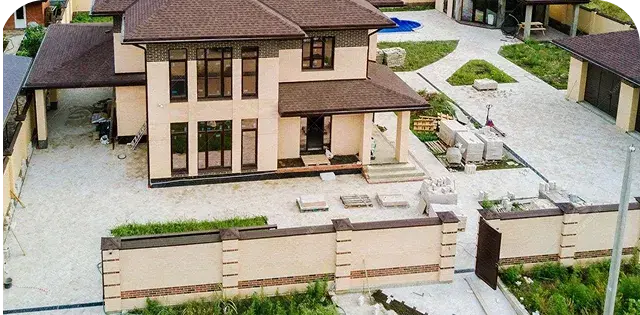
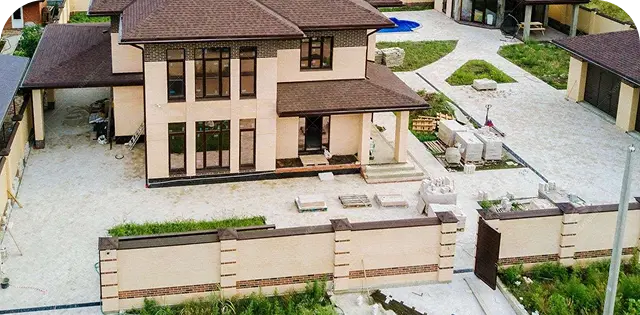
fix: bugs

diff --git a/client/src/features/client/forms/ApplicationForm/ApplicationForm.module.css b/client/src/features/client/forms/ApplicationForm/ApplicationForm.module.css
@@ -1,3 +1,15 @@
+@keyframes bounce {
+  0% {
+    transform: translateY(0);
+  }
+  50% {
+    transform: translateY(-10px);
+  }
+  100% {
+    transform: translateY(0);
+  }
+}
+
 .formContainer {
   position: fixed;
   display: flex;
@@ -30,7 +42,7 @@
 }
 
 .icon {
-  width: 2.5rem;
+  width: 2.2rem;
 }
 
 .closeButton:hover {
@@ -78,18 +90,6 @@
   transform: scale(1.1);
 }
 
-@keyframes bounce {
-  0% {
-    transform: translateY(0);
-  }
-  50% {
-    transform: translateY(-10px);
-  }
-  100% {
-    transform: translateY(0);
-  }
-}
-
 .submitButton:disabled {
   transition: background-color 0.3s ease;
   cursor: default;
@@ -110,6 +110,10 @@
   .closeButton {
     top: 2rem;
     right: 2.5rem;
+  }
+
+  .icon {
+    width: 2.4rem;
   }
 
   .formCard h2 {

diff --git a/client/src/features/client/forms/ApplicationForm/Input/Input.module.css b/client/src/features/client/forms/ApplicationForm/Input/Input.module.css
@@ -56,13 +56,16 @@
 
 .inputGroupError span {
   font-size: 1.2rem;
-  color: #646464;
+  color: #ff0404;
 }
 
 @media (max-width: 425px) {
   .inputGroup input,
   .inputGroup select {
     font-size: 2rem;
+  }
+  .inputGroupError span {
+    font-size: 1.4rem;
   }
 
   .selectGroup::after {
